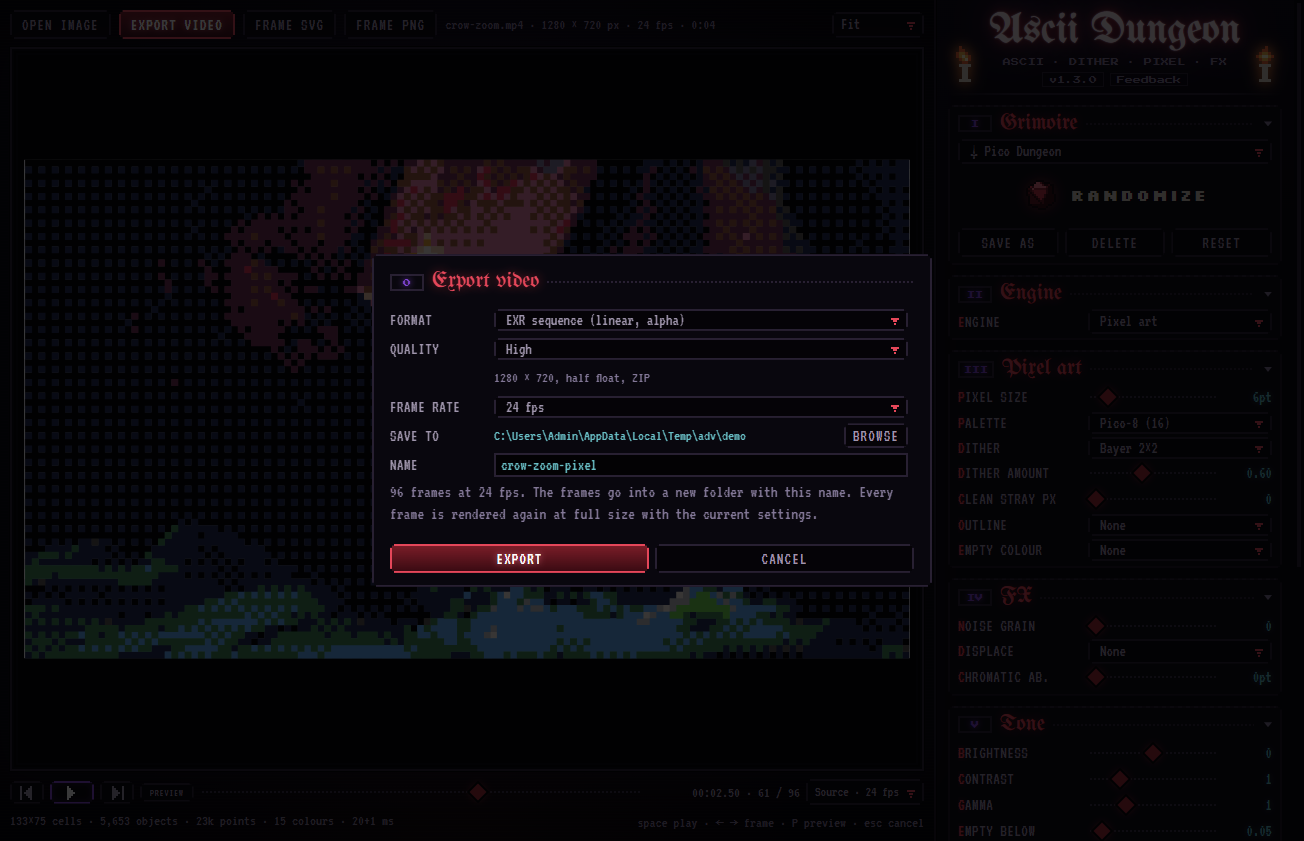
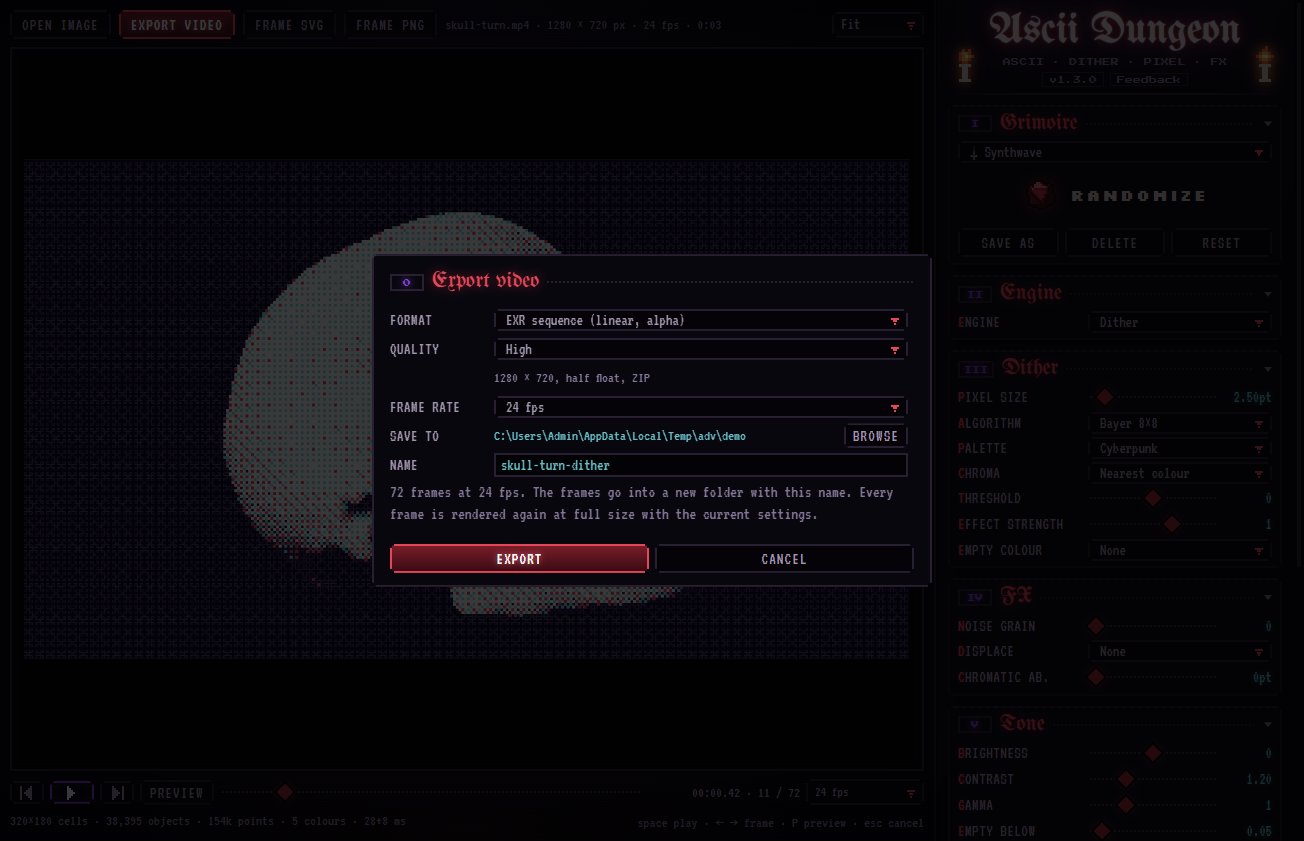
README: readable skull screenshots and a turning skull loop

diff --git a/README.md b/README.md
@@ -9,13 +9,13 @@ A standalone app for Windows, a plugin for Adobe Illustrator and a plugin for Ve
 
 [**Download the latest version**](https://github.com/4ebass-cmyk/ascii-dungeon-releases/releases/latest) · [What's new](https://github.com/4ebass-cmyk/ascii-dungeon-releases/releases) · [Report a bug](https://github.com/4ebass-cmyk/ascii-dungeon-releases/issues/new?labels=bug)
 
-![ASCII Dungeon App with a photo turned into Fraktur letters](docs/app-still.png)
+![ASCII Dungeon App with a horned skull turned into Fraktur letters](docs/app-still.png)
 
 </div>
 
 ## Four engines, one window
 
-![The same photo in four engines: ASCII, dither, pixel art and shapes](docs/engines.png)
+![The same skull in four engines: ASCII, dither, pixel art and shapes](docs/engines.png)
 
 | Engine | What it makes |
 |---|---|
@@ -32,7 +32,7 @@ The **Grimoire** has 23 ready looks, and **Randomize** rolls new settings for ev
 
 <div align="center">
 
-![A short clip rendered as pixel art](docs/video.gif)
+![A turning skull rendered with the Synthwave dither](docs/video.gif)
 
 </div>
 
@@ -43,7 +43,7 @@ Open or drop a video (MP4, MOV, MKV, WebM, AVI and more) and every setting works
 - Quality from Low (720p) to Source (the video's own size and bitrate), and a frame rate of your choice, from 60 down to 8 fps for a choppy retro look.
 - Rendering uses every processor core.
 
-![The timeline with a pixel art clip](docs/app-video.png)
+![The timeline with a dithered clip](docs/app-video.png)
 
 ![The export window](docs/app-export.png)
 
@@ -83,7 +83,8 @@ Found a bug or missing something? Use **Feedback** next to the version number in
 
 ## Credits
 
-- Photo in the screenshots: [Nastia Petruk](https://unsplash.com/@mineral_of_demon) on [Unsplash](https://unsplash.com/photos/a-spooky-scene-with-a-crow-skull-and-candle-vcgOBO7UBpQ).
+- Skull photo in the screenshots: [Unsplash](https://unsplash.com/photos/a-black-and-white-photo-of-a-skull-CXUvSOC2ZS8), with the horns added by an image model.
+- Turning skull: rendered in Blender from the [Skull model by Vladimir Petkovic](https://github.com/KhronosGroup/glTF-Sample-Assets/tree/main/Models/ScatteringSkull) (CC0).
 - Fonts: UnifrakturMaguntia, Press Start 2P, Silkscreen and VT323, under the SIL Open Font License.
 - [opentype.js](https://github.com/opentypejs/opentype.js) (MIT) reads the fonts.
 - The App runs video through [ffmpeg](https://ffmpeg.org), a GPL build from [BtbN/FFmpeg-Builds](https://github.com/BtbN/FFmpeg-Builds), shipped as a separate program in its `ffmpeg` folder.
